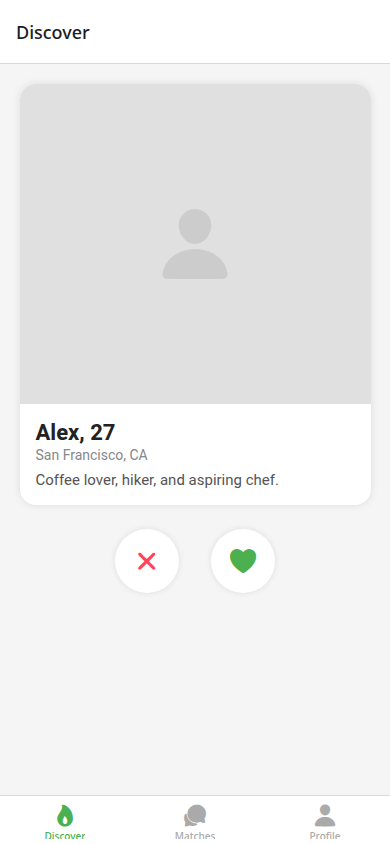
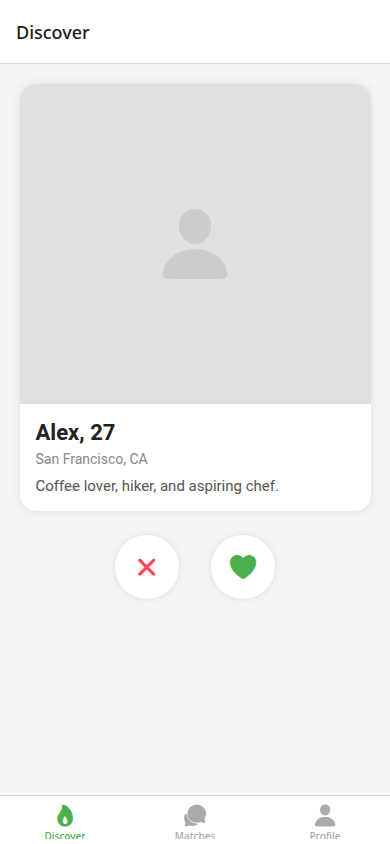
Update README with new screenshots and safety setup docs

Changed region(s): [[0.0923, 0.5237, 0.7077, 0.5853], [0.5846, 0.6469, 0.6769, 0.7085], [0.3385, 0.6469, 0.4, 0.6777]]

diff --git a/README.md b/README.md
@@ -1,18 +1,20 @@
 # safedate
 
-A React Native dating app built with Expo. Browse profiles, match, and chat — all in a clean mobile UI.
+A React Native dating app built with Expo. Browse profiles, match, and chat — with built-in safety features powered by Twilio and Garbo.
 
 ## Screenshots
 
-| Discover | Matches | Profile |
+| Phone Verify | Discover | Matches |
 |---|---|---|
-| ![Discover](screenshots/discover.png) | ![Matches](screenshots/matches.png) | ![Profile](screenshots/profile.png) |
+| ![Phone Verify](screenshots/phone-verify.png) | ![Discover](screenshots/discover.png) | ![Matches](screenshots/matches.png) |
 
 ## Features
 
+- **Phone Verification** — SMS OTP via Twilio Verify on first launch
 - **Discover** — Swipe through profile cards with like and pass actions
 - **Matches** — See everyone you've matched with at a glance
 - **Chat** — Message your matches in a real-time-style thread
+- **Safety Check** — Run a Garbo background check on any match (sex offender registry, violent crime history, public records)
 - **Profile** — Edit your name, age, and bio
 
 ## Tech stack
@@ -21,7 +23,25 @@ A React Native dating app built with Expo. Browse profiles, match, and chat — 
 - [React Native](https://reactnative.dev) 0.85
 - [React Navigation](https://reactnavigation.org) — bottom tabs + native stack
 - [Zustand](https://zustand-demo.pmnd.rs) — global state
+- [Twilio Verify](https://twilio.com/verify) — phone number verification
+- [Garbo](https://garbo.io) — background checks for dating safety
 - TypeScript
+
+## Safety setup
+
+Copy `server/.env.example` to `server/.env` and add your keys:
+
+| Key | Where to get it |
+|---|---|
+| `TWILIO_ACCOUNT_SID` / `TWILIO_AUTH_TOKEN` | [console.twilio.com](https://console.twilio.com) |
+| `TWILIO_VERIFY_SERVICE_SID` | Create a Verify service in the Twilio console |
+| `GARBO_API_KEY` | Apply at [garbo.io/for-platforms](https://garbo.io/for-platforms) |
+
+Start the backend alongside the app:
+
+```bash
+cd server && npm install && npm start
+```
 
 ## Getting started
 